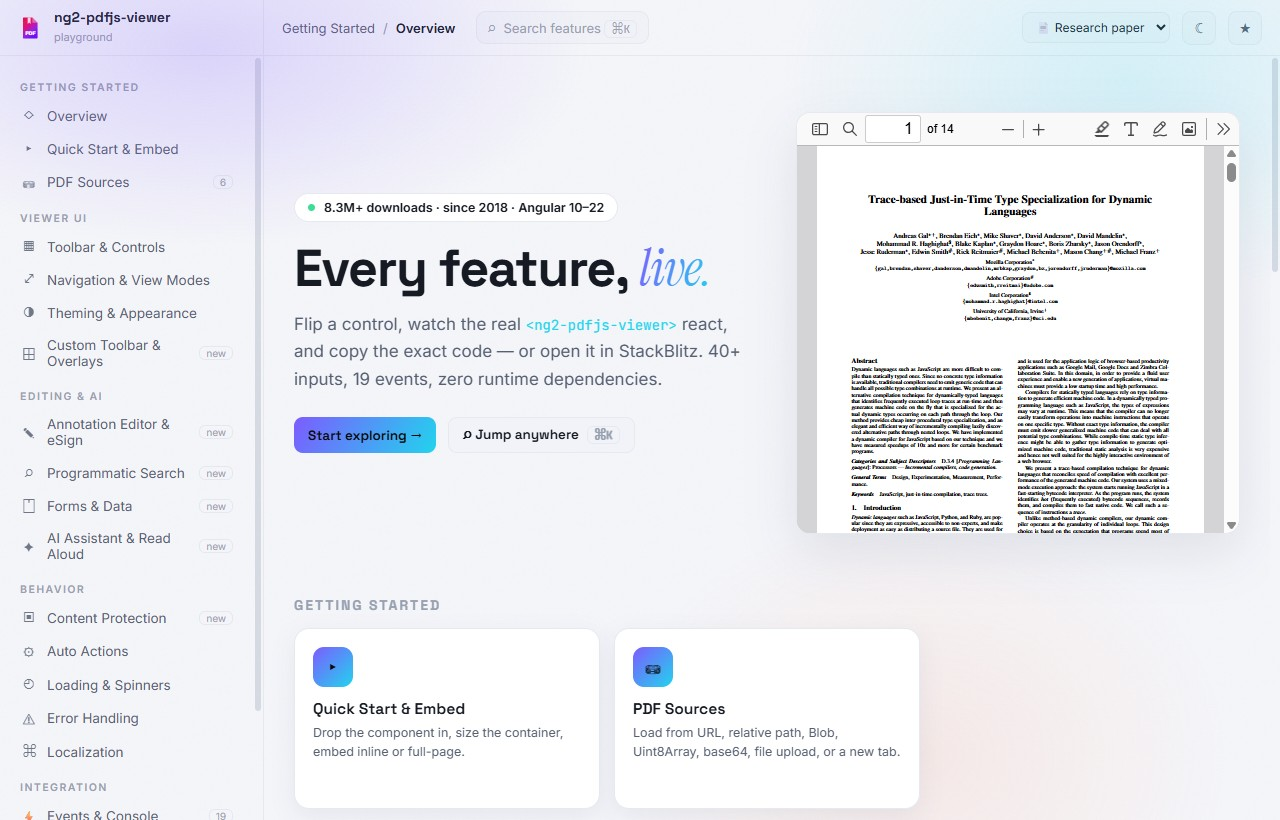
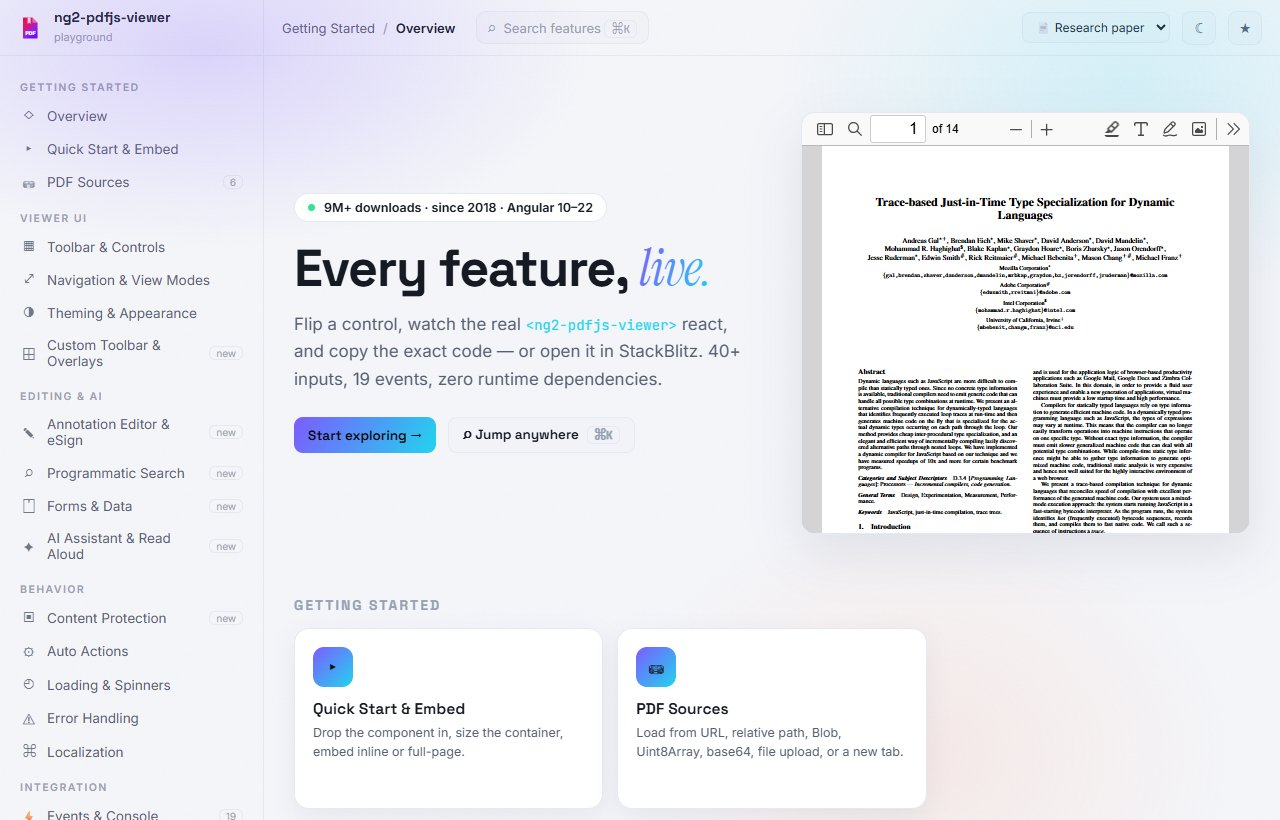
Downloads milestone: cover every static copy of the count (#448)
README had two counts written as "8.3+ million" and the showcase screenshot of the demo showed 8.3M+. The milestone script now scans every tracked text file and fails on counts it can't update; the workflow also re-renders the infographic sample PDF and the showcase screenshot.

diff --git a/README.md b/README.md
@@ -33,7 +33,7 @@ Drop a production PDF viewer into any Angular app with a single tag. ng2-pdfjs-v
 search, printing, theming, annotations, e-signatures, AcroForms, read-aloud, and a bring-your-own
 AI assistant — all driven by typed `@Input()`s and `@Output()` events, no iframe plumbing of your own.
 
-Shipping since **2018**, **8.3+ million downloads**, mobile-first, and built & verified on **Angular 22**
+Shipping since **2018**, **9M+ downloads**, mobile-first, and built & verified on **Angular 22**
 while keeping a wide `>=10` peer range so existing apps upgrade without churn.
 
 From France's data-protection regulator to Switzerland's federal tech institute, it's in
@@ -246,7 +246,7 @@ Using it somewhere that won't show up in public code — an internal tool, a hos
 ## 🙏 Acknowledgments
 
 Built on the excellent [Mozilla PDF.js](https://github.com/mozilla/pdf.js), and shaped over the
-years by a community of contributors and 8.3+ million downloads' worth of real-world use.
+years by a community of contributors and 9M+ downloads' worth of real-world use.
 
 ---
 
